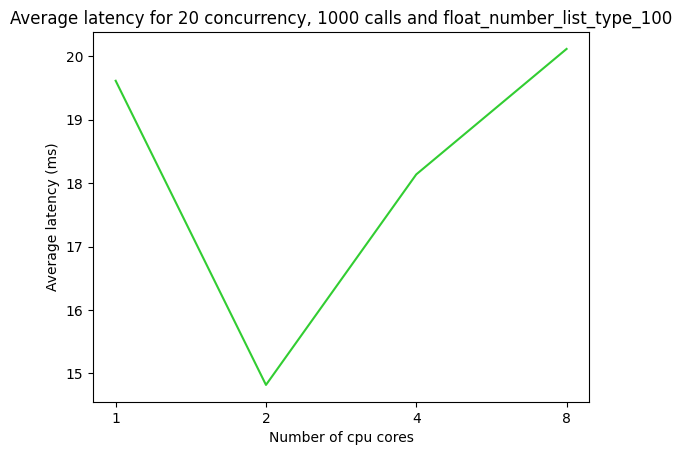
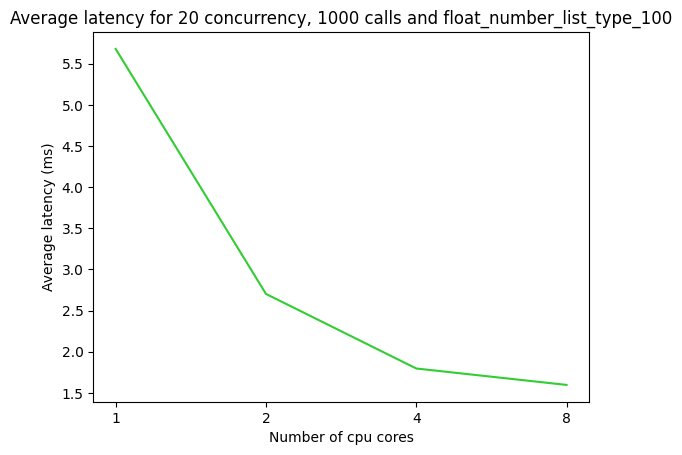
Run each test 10 times to get average values and update plots

diff --git a/helloworld/run.py b/helloworld/run.py
@@ -54,12 +54,22 @@ def append_results(results):
     file.write(json.dumps(results, indent=4))
     file.close()
 
+def extract_information(results):
+    return {
+        "options": results["options"],
+        "total": results["total"],
+        "average": results["average"],
+        "fastest": results["fastest"],
+        "slowest": results["slowest"],
+        "rps": results["rps"],
+    }
+
 
 
 
 # TEST CONCURRENCY
 def test_concurrency(data_len_for_concurrency, data_type_for_concurrency, \
-                    concurrency = [1, 5, 10, 50, 100, 150, 200], \
+                    times_so_far, concurrency = [1, 5, 10, 50, 100, 150, 200], \
                     total_for_concurrency = 1000, cpus_for_concurrency = 2):
     ghz_json = {
         "total": total_for_concurrency,
@@ -69,7 +79,8 @@ def test_concurrency(data_len_for_concurrency, data_type_for_concurrency, \
     print(f"Testing concurrency with {total_for_concurrency} calls, {cpus_for_concurrency} cpus and {data_type_for_concurrency} data")
 
     results_so_far = read_results_so_far()
-    concurrency_results = {}
+    if times_so_far == 1:
+        results_so_far["concurrency"] = {}
 
     for c in concurrency:
         # generate random data
@@ -77,7 +88,7 @@ def test_concurrency(data_len_for_concurrency, data_type_for_concurrency, \
             data_for_concurrency = [generate_float_number_list_data(data_len_for_concurrency)]
         else:
             data_for_concurrency = [generate_long_string_data(data_len_for_concurrency)]
-
+            
         # run tests
         ghz_json["concurrency"] = c
         ghz_json["data"] = data_for_concurrency
@@ -89,19 +100,21 @@ def test_concurrency(data_len_for_concurrency, data_type_for_concurrency, \
 
         # append results to concurrency results
         key = f"[{total_for_concurrency}, {c}, {cpus_for_concurrency}, {data_type_for_concurrency}]"
-        concurrency_results[key] = current_results
+
+        if times_so_far == 1:
+            results_so_far["concurrency"][key] = {}
+        results_so_far["concurrency"][key][str(times_so_far)] = extract_information(current_results)
 
     #append concurrency results to results so far
-    results_so_far["concurrency"] = concurrency_results
     append_results(results_so_far)
 
 
 
 # TEST TOTAL
-def test_total(data_len_for_total, data_type_for_total, \
+def test_total(data_len_for_total, data_type_for_total, times_so_far, \
                 total = [100, 1000, 10000, 100000, 500000], \
-                    concurrency_for_total = 20, \
-                    cpus_for_total = 2):
+                concurrency_for_total = 20, \
+                cpus_for_total = 2):
 
     ghz_json = {
         "concurrency": concurrency_for_total,
@@ -111,7 +124,8 @@ def test_total(data_len_for_total, data_type_for_total, \
     print(f"Testing total calls with {concurrency_for_total} concurrency, {cpus_for_total} cpus and {data_type_for_total} data")
 
     results_so_far = read_results_so_far()
-    total_results = {}
+    if times_so_far == 1:
+        results_so_far["total"] = {}
 
     for n in total:
         # generate random data
@@ -131,17 +145,19 @@ def test_total(data_len_for_total, data_type_for_total, \
 
         # append results to concurrency results
         key = f"[{n}, {concurrency_for_total}, {cpus_for_total}, {data_type_for_total}]"
-        total_results[key] = current_results
+
+        if times_so_far == 1:
+            results_so_far["total"][key] = {}
+        results_so_far["total"][key][str(times_so_far)] = extract_information(current_results)
 
     #append concurrency results to results so far
-    results_so_far["total"] = total_results
     append_results(results_so_far)
 
 
 
 # TEST CPUS
 def test_cpus(data_len_for_cpus, data_type_for_cpus, \
-                cpus = [1, 2, 4, 8], \
+                times_so_far, cpus = [1, 2, 4, 8], \
                 concurrency_for_cpus = 20, \
                 total_for_cpus = 1000):
 
@@ -153,7 +169,8 @@ def test_cpus(data_len_for_cpus, data_type_for_cpus, \
     print(f"Testing cpus with {concurrency_for_cpus} concurrency, {total_for_cpus} calls and {data_type_for_cpus} data")
 
     results_so_far = read_results_so_far()
-    cpus_results = {}
+    if times_so_far == 1:
+        results_so_far["cpus"] = {}
 
     for cpu in cpus:
         # generate random data
@@ -162,7 +179,6 @@ def test_cpus(data_len_for_cpus, data_type_for_cpus, \
         else:
             data_for_cpus = [generate_long_string_data(data_len_for_cpus)]
 
-        
         # run tests
         ghz_json["cpus"] = cpu
         ghz_json["data"] = data_for_cpus
@@ -174,16 +190,18 @@ def test_cpus(data_len_for_cpus, data_type_for_cpus, \
 
         # append results to cpu results
         key = f"[{total_for_cpus}, {concurrency_for_cpus}, {cpu}, {data_type_for_cpus}]"
-        cpus_results[key] = current_results
+
+        if times_so_far == 1:
+            results_so_far["cpus"][key] = {}
+        results_so_far["cpus"][key][str(times_so_far)] = extract_information(current_results)
 
     #append cpu results to results so far
-    results_so_far["cpus"] = cpus_results
     append_results(results_so_far)
 
 
 
 # TEST DATA
-def test_data(len_for_float_number_data_type = [10, 100, 1000, 10000], \
+def test_data(times_so_far, len_for_float_number_data_type = [10, 100, 1000, 10000], \
             len_for_long_string_data_type = [10, 100, 1000, 10000], \
             concurrency_for_data = 20, total_for_data = 1000, \
             cpus_for_data = 2):
@@ -203,7 +221,8 @@ def test_data(len_for_float_number_data_type = [10, 100, 1000, 10000], \
     }
 
     results_so_far = read_results_so_far()
-    data_results = {}
+    if times_so_far == 1:
+        results_so_far["data"] = {}
 
     for d_type, d in data.items():
         # run tests
@@ -216,10 +235,12 @@ def test_data(len_for_float_number_data_type = [10, 100, 1000, 10000], \
 
         # append results to data results
         key = f"[{total_for_data}, {concurrency_for_data}, {cpus_for_data}, {d_type}]"
-        data_results[key] = current_results
+
+        if times_so_far == 1:
+            results_so_far["data"][key] = {}
+        results_so_far["data"][key][str(times_so_far)] = extract_information(current_results)
 
     #append data results to results so far
-    results_so_far["data"] = data_results
     append_results(results_so_far)
 
 
@@ -228,17 +249,21 @@ def test_data(len_for_float_number_data_type = [10, 100, 1000, 10000], \
 # concurrency
 data_len_for_concurrency = 100
 data_type_for_concurrency = f"float_number_list_type_{data_len_for_concurrency}"
-test_concurrency(data_len_for_concurrency, data_type_for_concurrency)
+for i in range(10):
+    test_concurrency(data_len_for_concurrency, data_type_for_concurrency, i+1)
 
 # total
 data_len_for_total = 100
 data_type_for_total = f"float_number_list_type_{data_len_for_total}"
-test_total(data_len_for_total, data_type_for_total)
+for i in range(10):
+    test_total(data_len_for_total, data_type_for_total, i+1)
 
 # cpus
 data_len_for_cpus = 100
 data_type_for_cpus = f"float_number_list_type_{data_len_for_cpus}"
-test_cpus(data_len_for_cpus, data_type_for_cpus)
+for i in range(10):
+    test_cpus(data_len_for_cpus, data_type_for_cpus, i+1)
 
 # data
-test_data()
+for i in range(10):
+    test_data(i+1)

diff --git a/helloworld/plots.py b/helloworld/plots.py
@@ -55,9 +55,14 @@ def make_plots(changing_variable):
         xlabel = "Data type"
         kind = "bar"
 
-    average_latency = [results[changing_variable][i]["average"]/1000000 for i in keys]
-    total_time = [results[changing_variable][i]["total"]/1000000 for i in keys]
-    rps = [results[changing_variable][i]["rps"] for i in keys]
+    average_latency = []
+    total_time = []
+    rps = []
+
+    for i in keys:
+        average_latency.append(sum([results[changing_variable][i][str(j+1)]["average"] for j in range(10)])/(10*1000000))
+        total_time.append(sum([results[changing_variable][i][str(j+1)]["total"] for j in range(10)])/(10*1000000))
+        rps.append(sum([results[changing_variable][i][str(j+1)]["rps"] for j in range(10)])/10)
 
     plot(title="Average latency"+title, \
         x=x, y=average_latency, xlabel=xlabel, \
